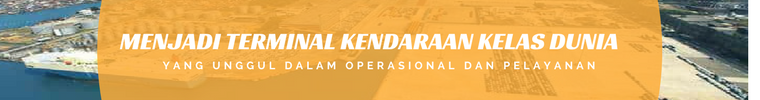
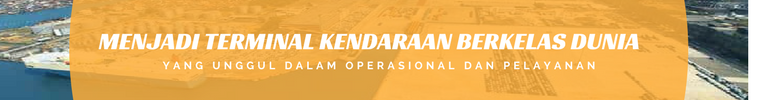
ganti gambar visi di profile, dan perbaikan kata - italic

Changed region(s): [[0.0908, 0.0, 0.9079, 1.0]]

diff --git a/resources/views/about.blade.php b/resources/views/about.blade.php
@@ -20,7 +20,7 @@
         <section class="row pd-bt-30">
           <div class="col-md-10 col-md-offset-1 col-sm-10 col-sm-offset-1">
             <div class="col-md-5 col-sm-12">
-              <h3 class="roboLight" style="line-height: 1.4em">Indonesia Kendaraan Terminal Merupakan Perusahaan Kendaraan Terminal yang Beroperasi Tanjung Priok Jakarta Indonesia, memberikan pelayanan Cargodooring, Stevedoring, Receiving & Delivering serta berbagai Pelayanan Terbaik untuk Pelanggan Kami.</h3>
+              <h3 class="roboLight" style="line-height: 1.4em">PT. Indonesia Kendaraan Terminal merupakan perusahaan kendaraan terminal yang beroperasi di Tanjung Priok Jakarta Indonesia, memberikan pelayanan <i> Cargodoring , Stevedoring, Receiving & Delivering </i> serta berbagai pelayanan terbaik untuk pelanggan kami.</h3>
             </div>
             <div class="col-md-7 col-sm-12" style="text-align: justify">
                 <hr class="hrSpec hrSpecOrange">
@@ -292,7 +292,7 @@
                 <section class="be-flex">
                   <i class="fa fa-check-circle mg-t-10 bl fa-lg mg-r-10"></i>
                   <section>
-                    <h4 class="roboBold">200 Proper & Educated Driver Available</h4>
+                    <h4 class="roboBold">200 Proper & Educated Drivers Available</h4>
                     <p>Tersedia 200 driver yang terlatih dan terdidik dengan baik</p>
                   </section>
                 </section>
@@ -323,6 +323,7 @@
           <div class="col-md-7">
             <hr class="hrSpec hrSpecOrange">
             <h2 class="roboBlack">Benefit Roro</h2>
+            <h4 class="roboLight">Short Sea Shipping</h4>
             <!-- Untuk tulisan -->
             <div class="col-md-12">
               <div class="col-md-12">
